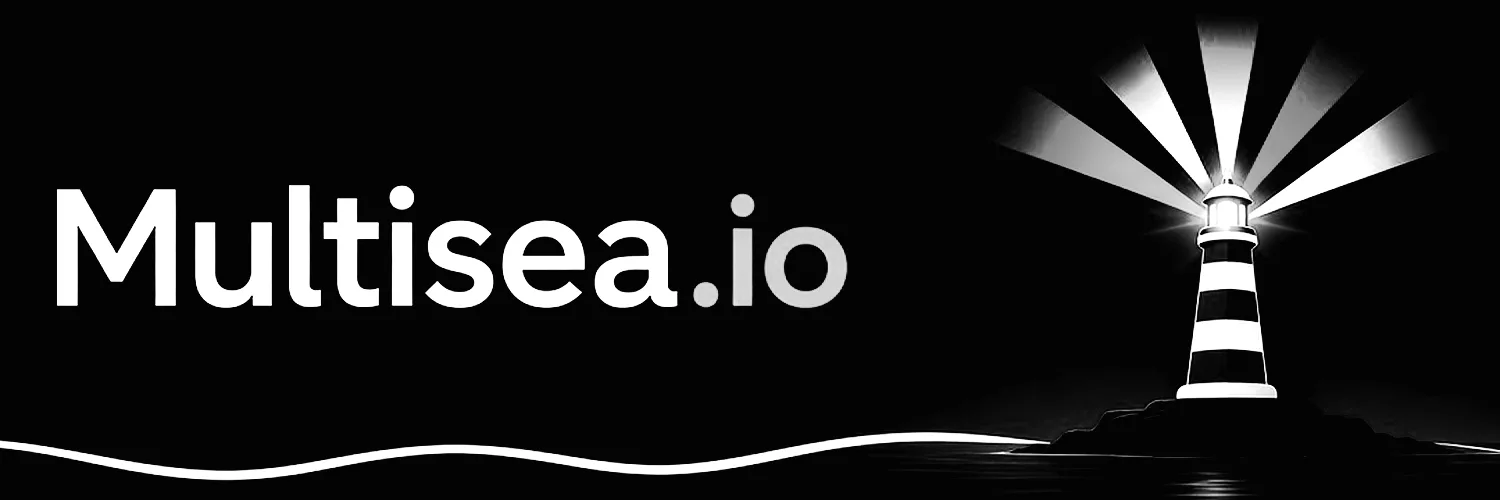
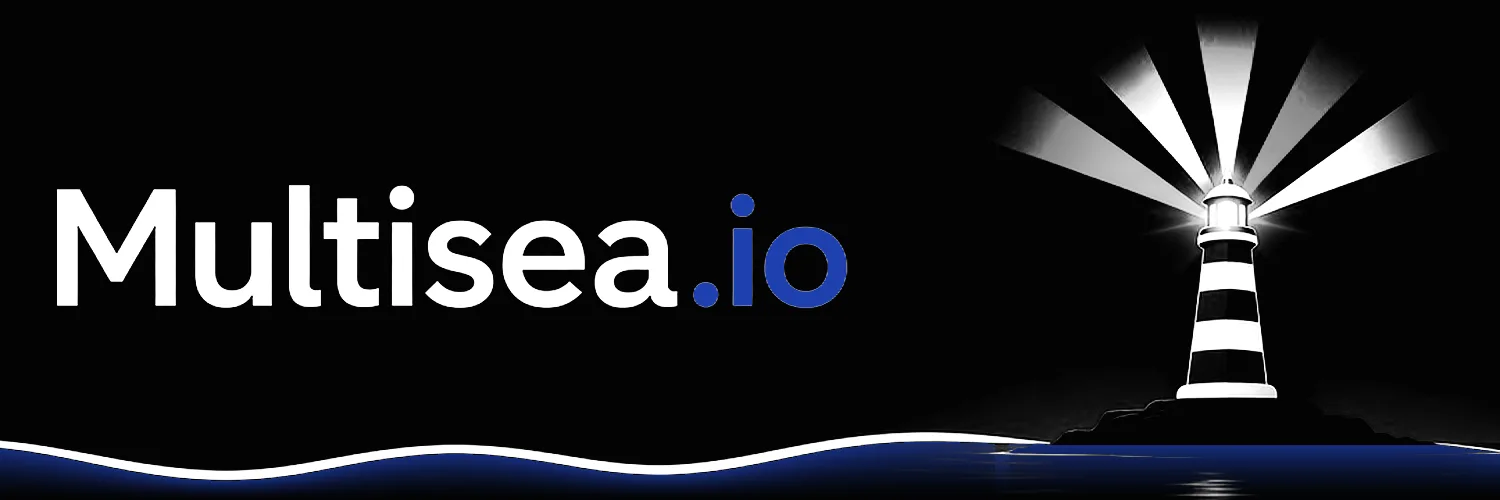
Navy accents: .io, water, primary buttons

Changed region(s): [[0.0, 0.87, 1.0, 0.99], [0.46, 0.39, 0.5827, 0.63]]

diff --git a/src/style.css b/src/style.css
@@ -111,8 +111,11 @@ img.broken{opacity:.15}
 
 .stat small.usd{display:block;color:#8a8a8a;font-size:11px;font-weight:600;margin-top:1px}.ccstats{grid-template-columns:repeat(4,1fr)}@media(max-width:480px){.ccstats{grid-template-columns:repeat(2,1fr)}}
 /* silver accent */
-.verified,.more button,.osl.cur,.wbtn,.buy,.bbtn{background:#d9d9d9!important;color:#000!important}
-.more button:hover,.wbtn:hover,.buy:hover,.bbtn:hover{background:#fff!important}
+.verified,.osl.cur{background:#d9d9d9!important;color:#000!important}
+/* primary buttons: navy */
+.more button,.wbtn,.buy,.bbtn{background:#1e40af!important;color:#fff!important;border-color:#1e40af!important}
+.more button:hover,.wbtn:hover,.buy:hover,.bbtn:hover{background:#2550c8!important}
+.bbtn:disabled,.buy:disabled{background:#1a2a55!important;color:#9aa4c0!important}
 .ccard.feat{border-color:#d9d9d988;box-shadow:0 0 0 1px #d9d9d944,0 8px 30px #ffffff14}
 :root{--beam-blue:#d9d9d9;--beam-cyan:#f2f2f2;--beam-amber:#bfbfbf;--beam-violet:#8c8c8c;--beam-lime:#e6e6e6}
 .editbtn,.ftag{color:#000!important}

diff --git a/scripts/navy-accents.py b/scripts/navy-accents.py
@@ -1,0 +1,20 @@
+import numpy as np
+from PIL import Image
+o=np.array(Image.open('brand/banner-orig.png').convert('RGB')).astype(float)
+b=np.array(Image.open('brand/banner-black.png').convert('RGB')).astype(float)
+H,W=b.shape[:2]; NAVY=np.array([0x1e,0x40,0xaf],float)
+# 1) .io mask from original blue pixels (antialiased via blueness), left text area only
+blu=np.clip((o[...,2]-o[...,0]-40)/150,0,1)*np.clip((o[...,2]-120)/80,0,1); m=np.zeros((H,W)); m[140:330,660:900]=blu[140:330,660:900]
+b=b*(1-m[...,None])+NAVY*m[...,None]
+# 2) water: below wave line per column
+white=(b.min(-1)>200)
+wb=np.full(W,np.nan)
+for x in range(W):
+    ys=np.where(white[400:,x])[0]
+    if len(ys): wb[x]=400+ys.max()
+xs=np.arange(W); ok=~np.isnan(wb); wb=np.interp(xs,xs[ok],wb[ok])
+Y=np.arange(H)[:,None]; d=Y-wb[None,:]
+g=np.where(d>1, np.clip(1-(d-1)/(H-wb[None,:]),0,1)**1.6, 0)*0.75
+lum=b.mean(-1)/255; g=g*(1-np.clip(lum*3,0,1))   # don't tint white/bright details
+b=b*(1-g[...,None])+NAVY*g[...,None]
+Image.fromarray(b.clip(0,255).astype(np.uint8)).save('brand/banner-black.png')
